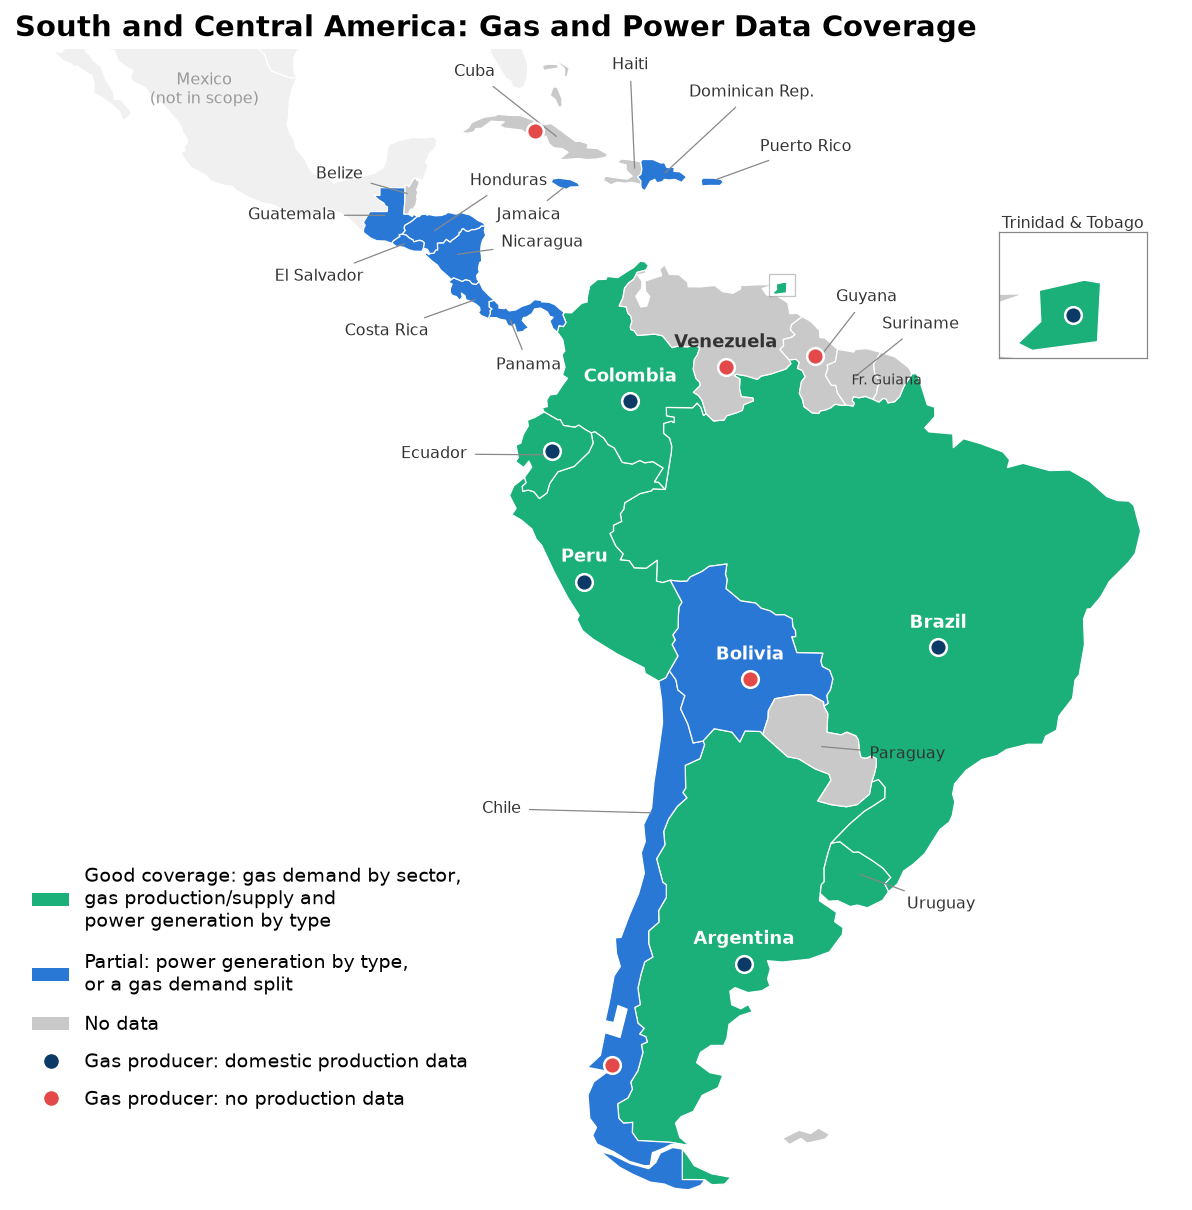
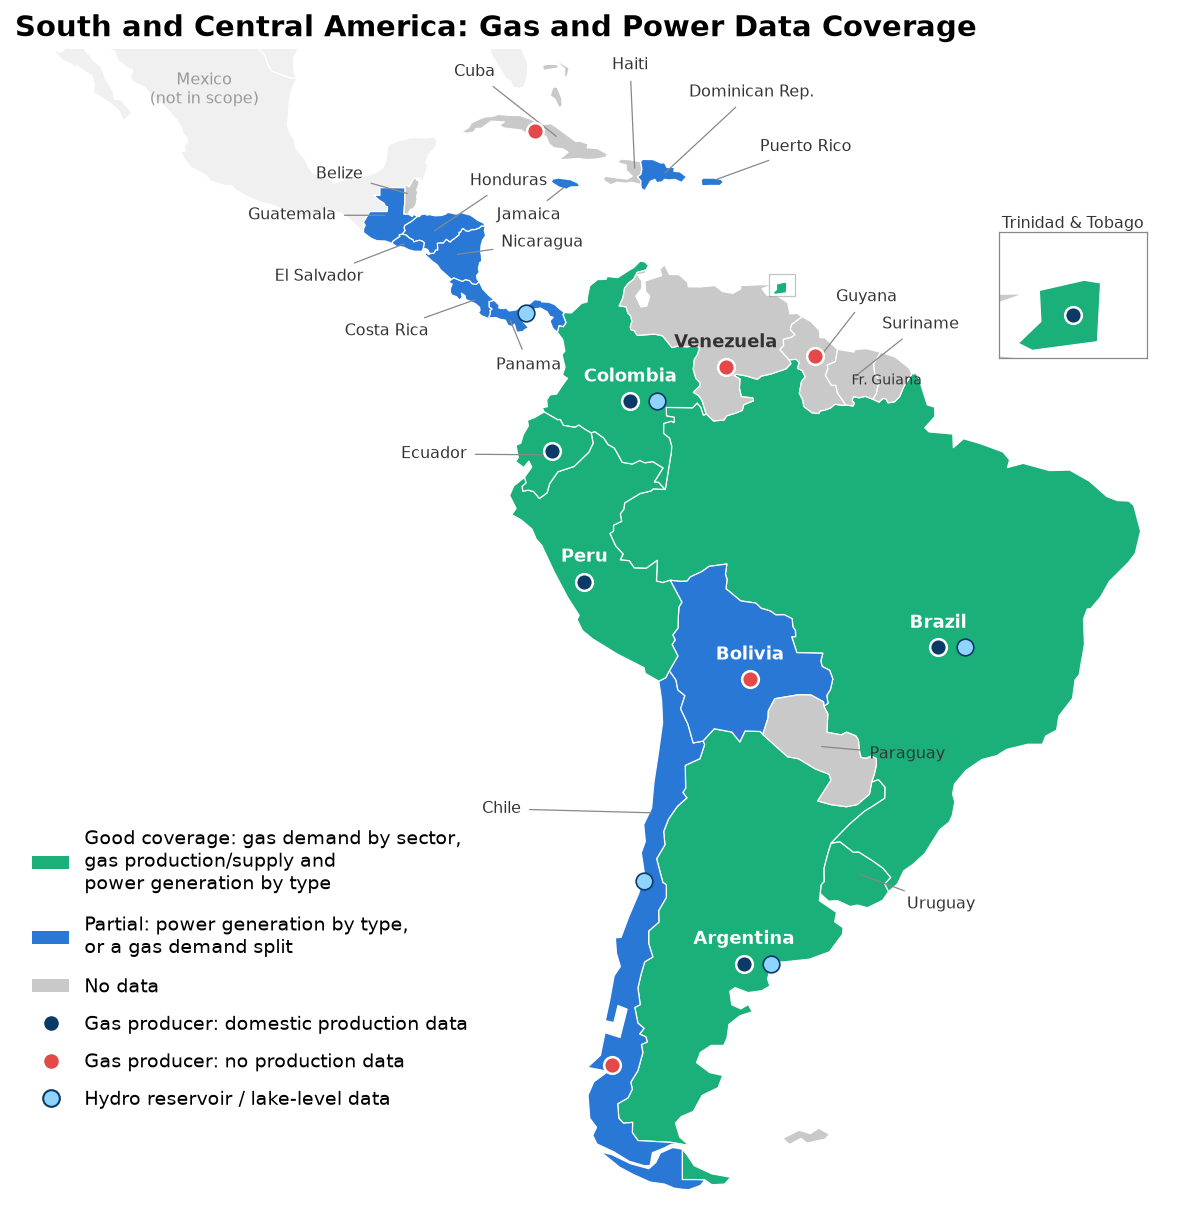
Coverage map: light blue dots for hydro reservoir / lake-level data
Claude-Session: https://claude.ai/code/session_01UhawKYpi1n6Y1dyxkRBGxu

diff --git a/south_america/COVERAGE_MAP.py b/south_america/COVERAGE_MAP.py
@@ -59,7 +59,10 @@ GAS_PRODUCERS = {
     "Argentina": True, "Brazil": True, "Colombia": True, "Peru": True, "Ecuador": True, "Trinidad and Tobago": True,
     "Bolivia": False, "Venezuela": False, "Chile": False, "Guyana": False, "Cuba": False,
 }
-DOT_HAVE, DOT_MISSING = "#0B3A66", "#E34948"
+DOT_HAVE, DOT_MISSING, DOT_HYDRO = "#0B3A66", "#E34948", "#8FD3FF"
+# Countries with reservoir / lake-level (hydro) data
+HYDRO = {"Brazil", "Colombia", "Argentina", "Chile", "Panama"}
+HYDRO_AT = {"Panama": (-80.2, 8.6), "Chile": (-71.5, -33.0)}
 # Where a dot would sit on a label or off a tiny island, place it here instead (lon, lat)
 DOT_AT = {"Chile": (-73.8, -46.5), "Trinidad and Tobago": (-61.2, 10.5), "Ecuador": (-78.3, -1.5),
           "Guyana": (-58.8, 5.5), "Cuba": (-79.5, 22.0)}
@@ -123,6 +126,15 @@ def main():
                 dx, dy = p.x, p.y - 1.8
             ax.plot(dx, dy, "o", markersize=8, color=DOT_HAVE if GAS_PRODUCERS[name] else DOT_MISSING,
                     markeredgecolor="white", markeredgewidth=1.2, zorder=5)
+        if name in HYDRO:
+            if name in HYDRO_AT:
+                hx, hy = HYDRO_AT[name]
+            elif name in GAS_PRODUCERS:   # beside the gas dot
+                hx, hy = dx + 2.0, dy
+            else:
+                hx, hy = p.x, p.y - 1.8
+            ax.plot(hx, hy, "o", markersize=8, color=DOT_HYDRO, markeredgecolor="#0B3A66", markeredgewidth=0.8,
+                    zorder=5)
     ax.text(-104, 24, "Mexico\n(not in scope)", fontsize=7.5, color="#999999", ha="center")
     ax.text(-53.5, 3.4, "Fr. Guiana", fontsize=6.5, color="#333333", ha="center")
 
@@ -133,7 +145,9 @@ def main():
                Line2D([], [], marker="o", linestyle="none", markersize=8, color=DOT_HAVE, markeredgecolor="white",
                       label="Gas producer: domestic production data"),
                Line2D([], [], marker="o", linestyle="none", markersize=8, color=DOT_MISSING, markeredgecolor="white",
-                      label="Gas producer: no production data")]
+                      label="Gas producer: no production data"),
+               Line2D([], [], marker="o", linestyle="none", markersize=8, color=DOT_HYDRO, markeredgecolor="#0B3A66",
+                      label="Hydro reservoir / lake-level data")]
     # Inset: Trinidad & Tobago is too small to see at this scale - zoom on it in the open Atlantic
     ins = ax.inset_axes([0.84, 0.73, 0.14, 0.11])
     world.plot(ax=ins, color=world["fill"], edgecolor=EDGE, linewidth=0.6)
